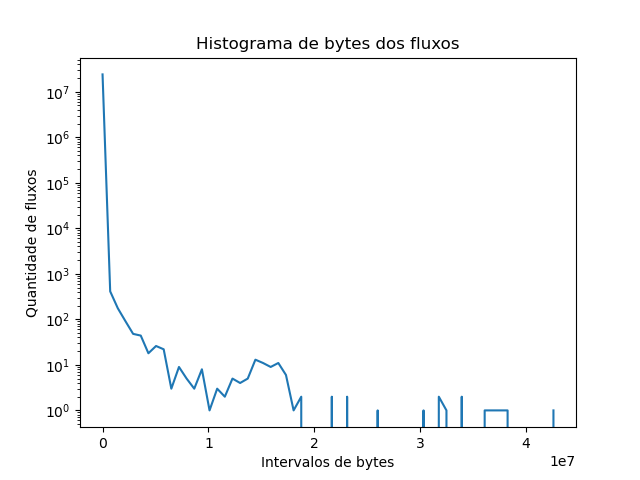
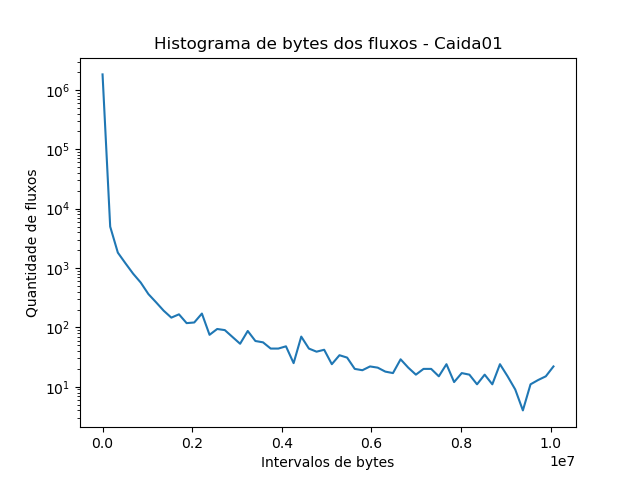
fix: correções

diff --git a/AvaliadorFluxo/GeraGraficosMongo.py b/AvaliadorFluxo/GeraGraficosMongo.py
@@ -37,28 +37,14 @@ def main():
         bytes_intervals.append(round(smaller_bytes + i * bytes_interval))
 
     # Contadores
-    duration_counters = [0 for i in range(NUMBER_BINS_HISTOGRAMA)]
-    bytes_counters = [0 for i in range(NUMBER_BINS_HISTOGRAMA)]
-    packets_counters = [0 for i in range(NUMBER_BINS_HISTOGRAMA)]
-    total_bytes = [0 for i in range(NUMBER_BINS_HISTOGRAMA)]
+    flows_by_duration_counters = [0 for i in range(NUMBER_BINS_HISTOGRAMA)]
+    flows_by_bytes_counters = [0 for i in range(NUMBER_BINS_HISTOGRAMA)]
+    packets_by_duration_counters = [0 for i in range(NUMBER_BINS_HISTOGRAMA)]
+    total_bytes_by_duration_counters = [0 for i in range(NUMBER_BINS_HISTOGRAMA)]
 
-    duration_histogram(collection, duration_intervals, duration_counters)
-    bytes_histogram(collection, bytes_intervals, bytes_counters)
-
-    # # Tamanho médio dos pacotes
-    # # X igual a duracao 
-    # # Y igual a tamanho medio
-    # # Tamanho medio = bytes / pacotes
-    # tamanho_medio = []
-    # for i in range(NUMERO_INTERVALOS_DURACAO):
-    #     if contadorPacotes[i] != 0:
-    #         tamanho_medio.append(bytesSoma[i] / contadorPacotes[i])
-    # plt.clf()
-    # plt.plot(intervalos_duracao, tamanho_medio) 
-    # plt.xlabel('Intervalos de duração')
-    # plt.ylabel('Tamanho médio dos pacotes')
-    # plt.title('Tamanho médio dos pacotes em relação a duração - ' + NAME)
-    # plt.savefig(PATH_GRAPHS + "/TamanhoMedioPacotes.png")
+    duration_histogram(collection, duration_intervals, flows_by_duration_counters, packets_by_duration_counters, total_bytes_by_duration_counters)
+    bytes_histogram(collection, bytes_intervals, flows_by_bytes_counters)
+    average_packet_size_by_duration_histogram(duration_intervals, packets_by_duration_counters, total_bytes_by_duration_counters)
 
     # # Número total de pacotes
     # total_pacotes = sum(contadorPacotes)
@@ -69,13 +55,11 @@ def main():
     # # Tamanho médio dos pacotes
     # tamanho_medio = total_bytes / total_pacotes
     # print("Tamanho médio dos pacotes: ", tamanho_medio)
-    
 
-
-# Greficos
+# Gráficos
 
 # Histograma de duração dos fluxos
-def duration_histogram(collection, duration_intervals, duration_counters):
+def duration_histogram(collection, duration_intervals, flows_by_duration_counters, packets_by_duration_counters, total_bytes_by_duration_counters):
     print("*" * 50)
     print("Gerando histograma de duração dos fluxos...")
     for i in range(NUMBER_BINS_HISTOGRAMA):
@@ -83,18 +67,40 @@ def duration_histogram(collection, duration_intervals, duration_counters):
             query = {"duration": {"$gte": duration_intervals[i]}}
         else:
             query = {"duration": {"$gte": duration_intervals[i], "$lt": duration_intervals[i + 1]}}
-        duration_counters[i] = collection.count_documents(query)
+        flows_by_duration_counters[i] = collection.count_documents(query)
 
-    # Cria o gráfico de histograma com y em escala logarítmica
+        # Conta a quantidade de pacotes e bytes
+        # Verifique se há resultado antes de acessar
+        result = collection.aggregate([
+            {"$match": query},
+            {"$group": {"_id": None, "total_packets": {"$sum": "$npackets_total"}, "total_bytes": {"$sum": "$nbytes_total"}}}
+        ])
+        result = next(result, None)
+        if result:
+            packets_by_duration_counters[i] = result["total_packets"]
+            total_bytes_by_duration_counters[i] = result["total_bytes"]
+        else:
+            packets_by_duration_counters[i] = 0
+            total_bytes_by_duration_counters[i] = 0
+
+    # Gráfico de linha
     plt.figure(figsize=(10, 5))
-    plt.bar(duration_intervals, duration_counters, color="blue", width=(duration_intervals[1] - duration_intervals[0]) * 0.8)
+    plt.plot(duration_intervals, flows_by_duration_counters)
     plt.xlabel('Intervalos de duração')
     plt.ylabel('Quantidade de fluxos')
-    plt.title('Histograma de duração dos fluxos - ' + NAME)
-    plt.savefig(PATH_GRAPHS + "/HistogramaDuracao.png")
-    print("Histograma de duração dos fluxos gerado com sucesso!")
+    plt.title('Quantidade de fluxos por duração - ' + NAME)
+    plt.savefig(PATH_GRAPHS + "/NumeroDeFluxosPorDuracaoLinha.png")
 
-def bytes_histogram(collection, bytes_intervals, bytes_counters):
+    # Gŕafico de barras
+    plt.figure(figsize=(10, 5))
+    plt.bar(duration_intervals, flows_by_duration_counters, color="blue", width=(duration_intervals[1] - duration_intervals[0]) * 0.8)
+    plt.xlabel('Intervalos de duração')
+    plt.ylabel('Quantidade de fluxos')
+    plt.title('Quantidade de fluxos por duração - ' + NAME)
+    plt.savefig(PATH_GRAPHS + "/NumeroDeFluxosPorDuracaoBarra.png")
+    print("Quantidade de fluxos por duração gerado com sucesso!")
+
+def bytes_histogram(collection, bytes_intervals, flows_by_bytes_counters):
     print("*" * 50)
     print("Gerando histograma de bytes dos fluxos...")
     for i in range(NUMBER_BINS_HISTOGRAMA):
@@ -102,18 +108,53 @@ def bytes_histogram(collection, bytes_intervals, bytes_counters):
             query = {"nbytes_total": {"$gte": bytes_intervals[i]}}
         else:
             query = {"nbytes_total": {"$gte": bytes_intervals[i], "$lt": bytes_intervals[i + 1]}}
-        bytes_counters[i] = collection.count_documents(query)
+        flows_by_bytes_counters[i] = collection.count_documents(query)
 
-    # Cria o gráfico de histograma com y em escala logarítmica
+    # Gráfico de linha
     plt.figure(figsize=(10, 5))
-    plt.bar(bytes_intervals, bytes_counters, color="blue", width=(bytes_intervals[1] - bytes_intervals[0]) * 0.8)
+    plt.plot(bytes_intervals, flows_by_bytes_counters)
     plt.yscale('log')
     plt.xlabel('Intervalos de bytes')
     plt.ylabel('Quantidade de fluxos')
-    plt.title('Histograma de bytes dos fluxos - ' + NAME)
-    plt.savefig(PATH_GRAPHS + "/HistogramaBytes.png")
-    plt.show()  # Exibe o gráfico durante o desenvolvimento
-    print("Histograma de bytes dos fluxos gerado com sucesso!")
+    plt.title('Quantidade de fluxos por bytes - ' + NAME)
+    plt.savefig(PATH_GRAPHS + "/NumeroFluxosPorBytesLinha.png")
+
+    # Gráfico de barra
+    plt.figure(figsize=(10, 5))
+    plt.bar(bytes_intervals, flows_by_bytes_counters, color="blue", width=(bytes_intervals[1] - bytes_intervals[0]) * 0.8)
+    plt.yscale('log')
+    plt.xlabel('Intervalos de bytes')
+    plt.ylabel('Quantidade de fluxos')
+    plt.title('Quantidade de fluxos por bytes - ' + NAME)
+    plt.savefig(PATH_GRAPHS + "/NumeroFluxosPorBytesBarras.png")
+    print("Quantidade de fluxos por bytes gerado com sucesso!")
+
+def average_packet_size_by_duration_histogram(duration_intervals, packets_by_duration_counters, total_bytes_by_duration_counters):
+    print("*" * 50)
+    print("Gerando histograma de tamanho médio dos pacotes por duração...")
+    tamanho_medio = []
+    for i in range(NUMBER_BINS_HISTOGRAMA):
+        if packets_by_duration_counters[i] != 0:
+            tamanho_medio.append(total_bytes_by_duration_counters[i] / packets_by_duration_counters[i])
+        else:
+            tamanho_medio.append(0)
+
+    # Gráfico de linha
+    plt.clf()
+    plt.plot(duration_intervals, tamanho_medio) 
+    plt.xlabel('Intervalos de duração')
+    plt.ylabel('Tamanho médio dos pacotes')
+    plt.title('Tamanho médio dos pacotes em relação a duração - ' + NAME)
+    plt.savefig(PATH_GRAPHS + "/TamanhoMedioPacotesPorDuracapLinha.png")
+
+    # Gŕafico de barras
+    plt.clf()
+    plt.bar(duration_intervals, tamanho_medio, color="blue", width=(duration_intervals[1] - duration_intervals[0]) * 0.8)
+    plt.xlabel('Intervalos de duração')
+    plt.ylabel('Tamanho médio dos pacotes')
+    plt.title('Tamanho médio dos pacotes em relação a duração - ' + NAME)
+    plt.savefig(PATH_GRAPHS + "/TamanhoMedioPacotesPorDuracaoBarra.png")
+    print("Histograma de tamanho médio dos pacotes por duração gerado com sucesso!")
 
 if __name__ == '__main__':
     start_time = time.time()
